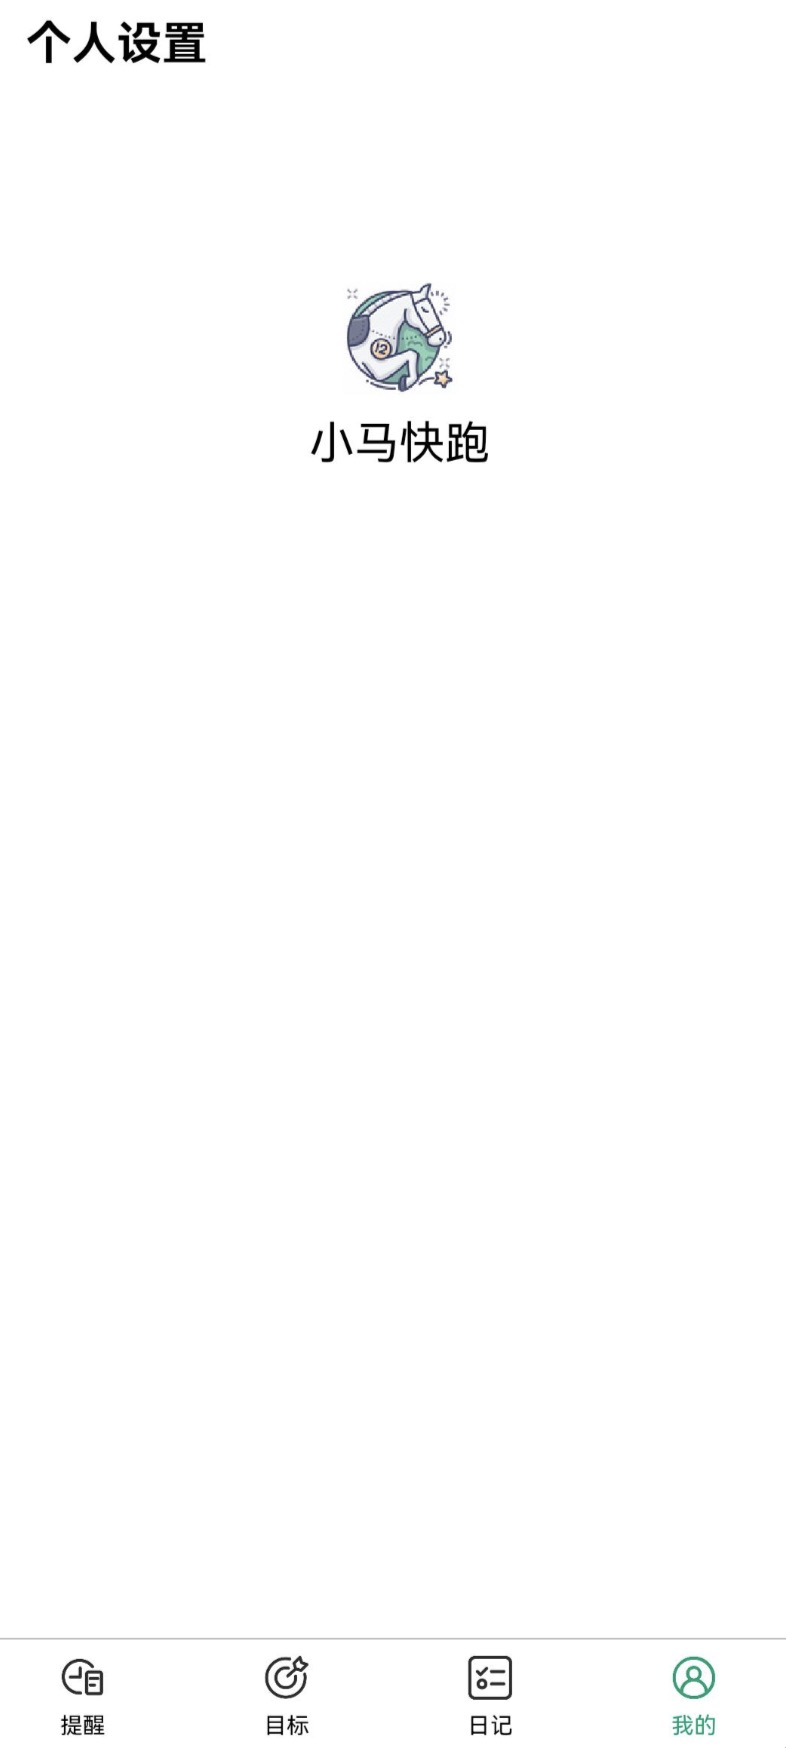
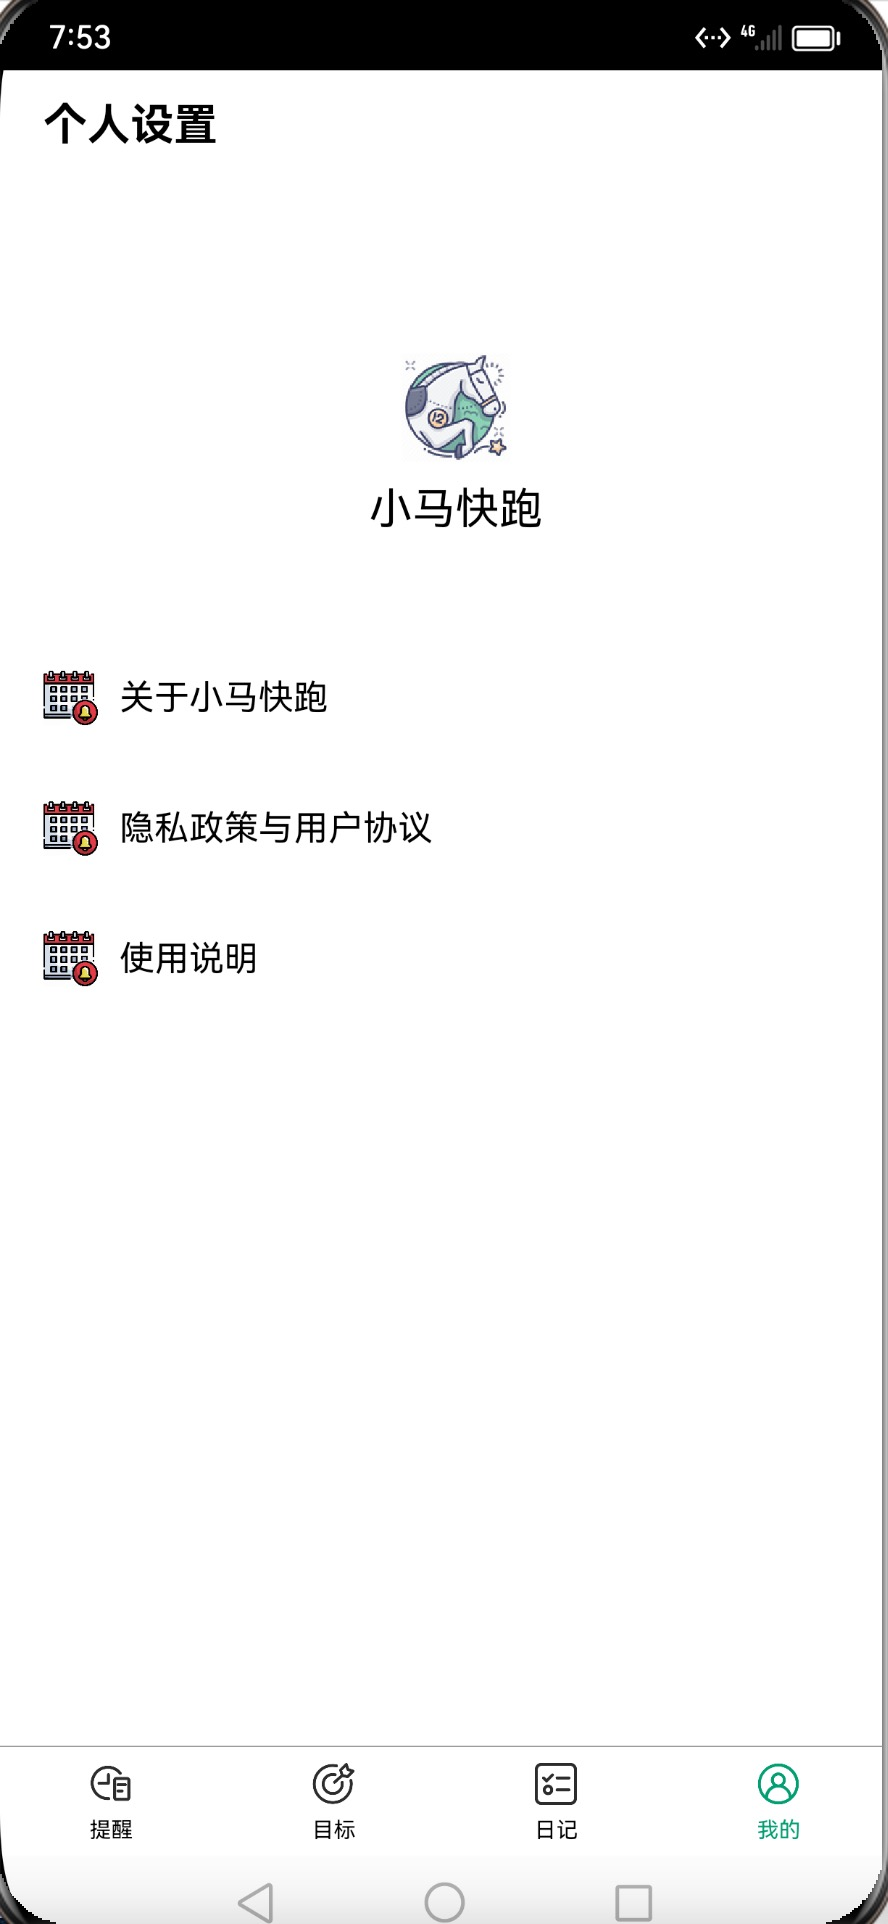
Beta1版本更新：更新版本对应的文档内容和资源文件

Changed region(s): [[0.0, 0.0, 1.0, 1.0], [0.0305, 0.3398, 0.4885, 0.5252], [0.3969, 0.1545, 0.6412, 0.278]]

diff --git a/instructions/功能架构.md b/instructions/功能架构.md
@@ -1,0 +1,78 @@
+# 小马快跑v1.0.0 - 功能架构
+
+#### 简介
+
+小马快跑是一款拥有事项提醒、目标管理和生活记录的工具类App，后续可能还会迭代其他的功能。
+
+###### 整体导航
+
+整体导航是使用Tabs+TabContent联合组件完成了类似Android的BottomNavigation+ViewPager+Fragment的页面切换效果
+
+###### 事项提醒功能
+
+> 主要负责一些事项的提醒，比如半小时或一小时后提醒，会在通知栏给到相应的通知以示提醒。
+>
+> 相对其他功能模块来说，数据条目会相对较少，目前仅需要输入事项内容以及选择提醒的时间，适合短期的小事项
+
+* 已完成内容：
+    * 提醒事项的添加
+    * 提醒事项列表的展示
+    * 不同状态事项列表的展示（待提醒的事项、已提醒的事项）
+* 待完成内容：
+    * 提醒事项详情的展示（倒计时展示）
+    * 增加提醒后一定时间弹出通知告知用户（目前为了测试写死一分钟，后续进行改动）
+    * 提醒事项的删除（左滑删除）
+    * 提醒事项的结束（结束不是删除，是一个状态，删除是从数据库中删除，结束可以再次提醒） 
+    * 提醒模块的引导功能
+* 后续考虑增加的功能内容(Release版本更新后开始增加)：
+    * 提醒事项与目标管理的联动
+
+###### 目标管理功能
+
+> 主要负责目标的管理。是针对长期的一些事项，比如周期性的内容或者长远的规划又或者既定的一些目标。像是每天早晨7点跑步，每天9点开始写代码，每周不固定的游泳计划，每个月或者半年的旅游计划等等。
+>
+> 目前在所有模块中是属于最大的一个功能模块内容，后续增加打卡、分享、使用情况统计图等内容，数据输入内容相对其他模块也是较为繁琐一些，比如目标icon的选择、时间选择、名称输入、状态选择等等
+
+* 已完成内容：
+    * 目标的添加
+    * 目标列表的展示
+* 待完成内容：
+    * 目标的修改
+    * 目标的删除（左滑删除）
+    * 目标的打卡（增加在列表条目中）
+* 后续考虑增加的功能内容(Release版本更新后开始增加)：
+    * 目标的详情（包含目标情况统计分析）
+    * 目标的分享（在打卡和详情界面）
+
+###### 记录生活功能
+
+> 主要负责生活琐事的一些记录，主打一个随心，类似日志和备忘的功能
+
+* 已完成内容：
+    * 记录的添加
+    * 记录列表的展示（时间轴）
+* 待完成内容：
+    * 记录的修改
+    * 记录的详情展示
+    * 记录的删除（长按显示删除按钮）
+    * 记录内容增加图片类型的添加条目
+    * 记录列表item增加图片缩略图的展示
+* 后续考虑增加的功能内容(Release版本更新后开始增加)：
+    * 记录列表增加对于自己生活记录的每个item的单独评论
+    * 记录详情页面添加图片的相册选择页面(现在是直接复用系统的选择)
+    * 记录详情页面添加图片的照相功能
+    * 记录详情页面点击图片可以单独展示
+
+
+###### 个人设置功能
+
+> 主要负责应用信息的展示、应用设置以及后续添加一些小功能的入口。是较为通用的一些ui展示内容，数据库方面在后续版本可能会考虑加入user表对个人数据进行管理以及后端数据的处理。但可能不会在Release新版本来做，应该会在比较靠后的版本中加入
+
+* 已完成内容：
+    * ui的简单展示
+    * 关于小马快跑的页面跳转与展示
+* 待完成内容：
+    * 暂无
+* 后续考虑增加的功能内容：
+    * 联合后端的user表数据管理，并做设备唯一ID的处理。但时间不确定，因为学习后端有一定时间成本
+    * 应用换肤、应用数据清除等

diff --git a/README.md b/README.md
@@ -1,4 +1,4 @@
-# 小马快跑 - Harmony版本
+# 小马快跑 - Harmony版本 - Beta1
 
 #### 简介
 
@@ -6,13 +6,47 @@
 
 目前鸿蒙版本处于刚开始开发的阶段，后续功能追平小马快跑Kotlin版本时，会发布Release版本
 
+
+
 #### 其他版本
 
 Kotlin版本：https://github.com/ContentMy/RunFastXM
 
-#### 应用快照
 
-  <img src="screenshot/提醒列表.jpg" alt="提醒列表" width="300"/><img src="screenshot/目标列表.jpg" alt="目标列表" width="300"/> <img src="screenshot/记录生活.jpg" alt="记录生活" width="300"/> <img src="screenshot/个人设置.jpg" alt="个人设置" width="300"/>
+
+#### 分支
+开发中：https://github.com/ContentMy/RunFastXM-Harmony/tree/dev
+
+
+
+#### 应用快照
+* 导航页
+
+  导航页说明：https://github.com/ContentMy/RunFastXM-Harmony/blob/master/instructions/guideInstruction.md
+
+* 事项提醒功能
+
+  提醒功能说明：https://github.com/ContentMy/RunFastXM-Harmony/blob/master/instructions/remindInstruction.md
+
+* 目标管理功能
+
+  目标功能说明：https://github.com/ContentMy/RunFastXM-Harmony/blob/master/instructions/targetInstruction.md
+
+* 备忘记录功能
+
+  日记功能说明：https://github.com/ContentMy/RunFastXM-Harmony/blob/master/instructions/memorandumInstruction.md
+
+* 个人设置功能
+
+  <img src="screenshot/个人设置.jpg" alt="个人设置" width="300"/>
+
+
+
+#### 功能架构
+
+ 文档链接：https://github.com/ContentMy/RunFastXM-Harmony/blob/master/instructions/功能架构.md
+
+
 
 #### 代码架构
 
@@ -23,3 +57,15 @@ Kotlin版本：https://github.com/ContentMy/RunFastXM
 开发语言：ArtTS
 
 开发库：目前是使用Harmony的原生组件
+
+
+
+#### 资源
+
+> 本开源项目使用的ui以及字体资源是从各网站找的免费非商用，罗列如下。如有侵权，请联系contentmy@163.com进行删除
+
+* 图片资源
+  * 阿里矢量库：https://www.iconfont.cn/
+  * ICONFINDER：https://www.iconfinder.com/
+* 字体资源
+  * 字体天下：https://www.fonts.net.cn/

diff --git a/instructions/remindInstruction.md b/instructions/remindInstruction.md
@@ -1,0 +1,35 @@
+# 小马快跑 beta1 - 提醒功能使用说明
+
+#### 简介
+
+小马快跑是一款拥有事项提醒、目标管理和生活记录的工具类App，后续可能还会迭代其他的功能。
+
+#### 提醒功能使用说明
+
+###### 提醒列表
+
+<img src="img/remind/提醒列表.jpg" alt="提醒列表" width="300"/><img src="img/remind/提醒列表-数据展示.jpg" alt="提醒列表-数据展示" width="300"/>
+
+###### 创建提醒
+
+<img src="img/remind/新建提醒.jpg" alt="新建提醒" width="300"/>
+
+###### 删除提醒
+
+暂无
+
+###### 提醒倒计时
+
+暂无
+
+###### 提醒通知
+
+暂无
+
+###### 查看已完成提醒
+
+<img src="img/remind/已完成提醒.jpg" alt="已完成提醒" width="300"/>
+
+###### 提醒优化
+
+暂无

diff --git a/instructions/memorandumInstruction.md b/instructions/memorandumInstruction.md
@@ -1,0 +1,23 @@
+# 小马快跑 beta1 - 日记功能使用说明
+
+#### 简介
+
+小马快跑是一款拥有事项提醒、目标管理和生活记录的工具类App，后续可能还会迭代其他的功能。
+
+#### 日记功能使用说明
+
+###### 创建心情
+
+<img src="img/memorandum/新建记录.jpg" alt="新建记录" width="300"/>
+
+###### 心情列表
+
+<img src="img/memorandum/记录生活.jpg" alt="记录生活" width="300"/><img src="img/memorandum/记录生活-数据展示.jpg" alt="记录生活-数据展示" width="300"/>
+
+###### 心情详情
+
+暂无
+
+###### 删除心情（长按）
+
+暂无

diff --git a/instructions/targetInstruction.md b/instructions/targetInstruction.md
@@ -1,0 +1,23 @@
+# 小马快跑 beta1 - 目标功能使用说明
+
+#### 简介
+
+小马快跑是一款拥有事项提醒、目标管理和生活记录的工具类App，后续可能还会迭代其他的功能。
+
+#### 目标功能使用说明
+
+###### 目标列表
+
+<img src="img/target/目标列表.jpg" alt="目标列表" width="300"/><img src="img/target/目标列表-数据展示.jpg" alt="目标列表-数据展示" width="300"/>
+
+###### 创建目标
+
+<img src="img/target/新建目标.jpg" alt="新建目标" width="300"/>
+
+###### 目标打卡
+
+暂无
+
+###### 删除目标
+
+暂无

diff --git a/instructions/guideInstruction.md b/instructions/guideInstruction.md
@@ -1,0 +1,9 @@
+# 小马快跑 beta1 - 导航页使用说明
+
+#### 简介
+
+小马快跑是一款拥有事项提醒、目标管理和生活记录的工具类App，后续可能还会迭代其他的功能。
+
+#### 导航页使用说明
+
+<img src="img/guide/导航页1.jpg" alt="导航页1" width="300"/><img src="img/guide/导航页2.jpg" alt="导航页2" width="300"/><img src="img/guide/导航页3.jpg" alt="导航页3" width="300"/>
